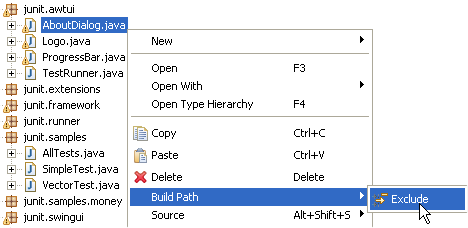
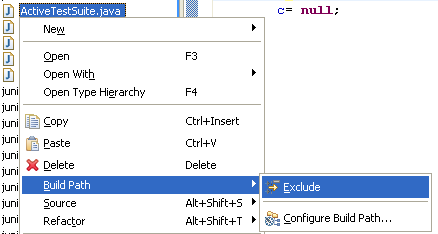
Polish of the JDT/UI section

diff --git a/bundles/org.eclipse.jdt.doc.user/whatsNew/jdt_whatsnew.html b/bundles/org.eclipse.jdt.doc.user/whatsNew/jdt_whatsnew.html
@@ -20,7 +20,6 @@ release of Eclipse since 3.0. It is broken into the several sections:</p>
 	<li><a href="#JavaCompiler">Java Compiler</a></li>
 	<li><a href="#JavaText">Java Editor</a></li>
 	<li><a href="#JavaUI">General Java Tools</a></li>
-	<li><a href="#JUnit">JUnit</a></li>
 </ul>
 <!-- *************************************************** -->
 <h2><a name="50">J2SE 5.0<br>
@@ -384,6 +383,32 @@ release of Eclipse since 3.0. It is broken into the several sections:</p>
 			<p><img src="images/rename-type-parameter.gif"
 				alt="Screenshot showing the renaming of a type parameter in a generic class"
 				title="Rename Refactoring" width="430" height="118"></p>
+			</td>
+		</tr>
+		<tr>
+			<td colspan="2">
+			<hr>
+			</td>
+		</tr>
+		<tr>
+			<td align="left" valign="top" width="30%">
+			<p align="right"><b>Source Actions</b></p>
+			</td>
+			<td valign="top" width="70%">The source actions available in the <b>Source</b>
+			context menu now support all the features of J2SE 5.0:
+			<ul>
+				<li>Override/Implement Methods supports generics and varargs in
+				method declarations</li>
+				<li>Generate Getters and Setters works on fields of generic type as
+				well</li>
+				<li>Generate Delegate Methods has support for generics and varargs,
+				and handles methods from types occurring in type bounds as well</li>
+				<li>Add Constructors from Superclass offers support for generics</li>
+				<li>Generate Constructor using Fields offers support for generics</li>
+			</ul>
+			<p><img src="images/override_method.png"
+				alt="Screenshot showing the override method action"
+				title="Source Actions" width="386" height="134"></p>
 			</td>
 		</tr>
 		<tr>
@@ -1591,23 +1616,14 @@ release of Eclipse since 3.0. It is broken into the several sections:</p>
 		</tr>
 		<tr>
 			<td width="30%" valign="top" align="left">
-			<p align="right"><b>Move member type refactoring</b></p>
+			<p align="right"><b>Member visbility adjustment</b></p>
 			</td>
-			<td width="70%" valign="top">The <b>Refactor &gt; Move Member Type to
-			New File</b> command now automatically changes the visibility of referenced
+			<td width="70%" valign="top">The refactoring commands Move method, Move Member Type to New File, Move Static member,  Pull Up and Push Down now automatically change the visibility of referenced
 			fields, methods and types wherever necessary.
-			<p><img src="images/inner-refactoring.gif"
+			<p><img src="images/visibility-adjustment.png"
 				alt="Screenshot showing the move member type to new file refactoring"
-				title="Move Member Type to New File Refactoring" width="336"
-				height="257"></p>
+				title="Move Member Type to New File Refactoring"></p>
 			</td>
-		</tr>
-		<tr>
-			<td colspan="2"></td>
-		</tr>
-		<tr>
-			<td width="30%" valign="top" align="left"></td>
-			<td width="70%" valign="top"></td>
 		</tr>
 		<tr>
 			<td colspan="2">
@@ -1616,7 +1632,7 @@ release of Eclipse since 3.0. It is broken into the several sections:</p>
 		</tr>
 		<tr>
 			<td width="30%" valign="top" align="left">
-			<p align="right"><b>Move refactoring</b></p>
+			<p align="right"><b>Move method refactoring</b></p>
 			</td>
 			<td width="70%" valign="top">The <b>Refactor &gt; Move</b> command
 			has been extended considerably to better support moving instance
@@ -1625,94 +1641,9 @@ release of Eclipse since 3.0. It is broken into the several sections:</p>
 				<li>The option to create a delegate method for compatibility</li>
 				<li>Unreferenced fields can now also be method targets</li>
 			</ul>
-			<p><img src="images/move-refactoring.gif"
+			<p><img src="images/move-refactoring.png"
 				alt="Screenshot showing the move refactoring on an instance method"
-				title="Move Refactoring" width="316" height="145"></p>
-			</td>
-		</tr>
-		<tr>
-			<td colspan="2">
-			<hr>
-			</td>
-		</tr>
-		<tr>
-			<td align="left" valign="top" width="30%">
-			<p align="right"><b>Extract Interface refactoring</b></p>
-			</td>
-			<td valign="top" width="70%">The extract interface refactoring has
-			been rewritten in order to provide full support for J2SE 5.0 and to
-			better respect code style preferences. New features include:
-			<ul>
-				<li>Support for generic types and varargs of J2SE 5.0</li>
-				<li>Full rewriting of existing method comments</li>
-				<li>Full use of code templates during code generation</li>
-			</ul>
-			<p><img src="images/interface_refactoring.png"
-				alt="Screenshot showing the extract interface refactoring"
-				title="Extract Interface Refactoring" width="400" height="201"></p>
-			</td>
-		</tr>
-		<tr>
-			<td colspan="2">
-			<hr>
-			</td>
-		</tr>
-		<tr>
-			<td align="left" valign="top" width="30%">
-			<p align="right"><b>Source Actions</b></p>
-			</td>
-			<td valign="top" width="70%">The source actions available in the <b>Source</b>
-			context menu now support all the features of J2SE 5.0:
-			<ul>
-				<li>Override/Implement Methods supports generics and varargs in
-				method declarations</li>
-				<li>Generate Getters and Setters works on fields of generic type as
-				well</li>
-				<li>Generate Delegate Methods has support for generics and varargs,
-				and handles methods from types occurring in type bounds as well</li>
-				<li>Add Constructors from Superclass offers support for generics</li>
-				<li>Generate Constructor using Fields offers support for generics</li>
-			</ul>
-			<p><img src="images/override_method.png"
-				alt="Screenshot showing the override method action"
-				title="Source Actions" width="386" height="134"></p>
-			</td>
-		</tr>
-		<tr>
-			<td colspan="2">
-			<hr>
-			</td>
-		</tr>
-		<tr>
-			<td valign="top" width="30%">
-			<p align="right"><b>Changing multiple line-wrap settings at once</b></p>
-			</td>
-			<td valign="top" width="70%">The Java code formatter page lets
-			you change multiple line-wrap settings at once by multi-selecting in
-			the tree and then changing settings:
-			<p><img alt="Code Formatter line wrap page"
-				src="images/line-wrap.gif" width="408" height="278"></p>
-			<p>Code formatter settings are on the <b>Java &gt; Code Style &gt;
-			Code Formatter </b>preference page.</p>
-			</td>
-		</tr>
-		<tr>
-			<td colspan="2">
-			<hr>
-			</td>
-		</tr>
-		<tr>
-			<td align="left" valign="top" width="30%">
-			<p align="right"><b>Build path menu in the Package Explorer<br>
-			</b></p>
-			</td>
-			<td valign="top" width="70%">The context menu of the Java Package
-			Explorer has a new 'Build Path' menu entry, offering
-			context-sensitive actions to modify the build path of a Java project.
-			You can add/remove new source folders, archives and libraries, and
-			include/exclude folders and files from a source folder:
-			<p><img alt="Build path menu" src="images/buildpath-menu.png"
-				width="468" height="228"></p>
+				title="Move Refactoring"></p>
 			</td>
 		</tr>
 		<tr>
@@ -1740,6 +1671,24 @@ release of Eclipse since 3.0. It is broken into the several sections:</p>
 		</tr>
 		<tr>
 			<td align="left" valign="top" width="30%">
+			<p align="right"><b>Build path menu in the Package Explorer<br>
+			</b></p>
+			</td>
+			<td valign="top" width="70%">The context menu of the Java Package
+			Explorer has a new 'Build Path' menu entry, offering
+			context-sensitive actions to modify the build path of a Java project.
+			You can add/remove new source folders, archives and libraries, and
+			include/exclude folders and files from a source folder:
+			<p><img alt="Build path menu" src="images/buildpath-menu.png"></p>
+			</td>
+		</tr>
+		<tr>
+			<td colspan="2">
+			<hr>
+			</td>
+		</tr>
+		<tr>
+			<td align="left" valign="top" width="30%">
 			<p align="right"><b>New Eclipse default built-in formatter profile</b></p>
 			</td>
 			<td valign="top" width="70%">Although Eclipse's default code
@@ -1757,6 +1706,24 @@ release of Eclipse since 3.0. It is broken into the several sections:</p>
 			</td>
 		</tr>
 		<tr>
+			<td valign="top" width="30%">
+			<p align="right"><b>Changing multiple line-wrap settings at once</b></p>
+			</td>
+			<td valign="top" width="70%">The Java code formatter page lets you
+			change multiple line-wrap settings at once by multi-selecting in the
+			tree and then changing settings:
+			<p><img alt="Code Formatter line wrap page"
+				src="images/line-wrap.png"></p>
+			<p>Code formatter settings are on the <b>Java &gt; Code Style &gt;
+			Code Formatter </b>preference page.</p>
+			</td>
+		</tr>
+		<tr>
+			<td colspan="2">
+			<hr>
+			</td>
+		</tr>
+		<tr>
 			<td width="30%" valign="top" align="left">
 			<p align="right"><b>Mixed indentation settings</b></p>
 			</td>
@@ -1764,8 +1731,7 @@ release of Eclipse since 3.0. It is broken into the several sections:</p>
 			allows the tab size to be configured independently from the
 			indentation size (see the <b>Indentation</b> tab in your formatter
 			profile):
-			<p><img src="images/mixed-indents.png" width="426" height="148"
-				alt="Java formatter preference page. Set the indentation preferences on the 'Indentation' tab of the formatter profile."
+			<p><img src="images/mixed-indents.png" alt="Java formatter preference page. Set the indentation preferences on the 'Indentation' tab of the formatter profile."
 				title="The 'Indentation' tab of the formatter profile allows you to separately configure tabulator and indentation settings">
 			</p>
 			<p>For example, set <b>Tab&nbsp;size</b> to <b>8</b> and <b>Indentation&nbsp;size</b>
@@ -1783,45 +1749,12 @@ release of Eclipse since 3.0. It is broken into the several sections:</p>
 		</tr>
 		<tr>
 			<td align="left" valign="top" width="30%">
-			<p align="right"><b>New layout for Java preference pages</b></p>
-			</td>
-			<td width="70%" valign="top">In an ongoing effort to improve our
-			preference pages, several pages have been reorganized. The various <b>Java
-			&gt; Compiler</b> preference pages are now arranged in collapsible
-			sections:
-			<p><img alt="Errors/Warnings preference page"
-				src="images/compiler-preference-page.gif" width="408" height="351"></p>
-			</td>
-		</tr>
-		<tr>
-			<td colspan="2">
-			<hr>
-			</td>
-		</tr>
-	</tbody>
-</table>
-<!-- *************************************************** -->
-<h2><a name="JUnit">JUnit</a></h2>
-<table cellpadding="10" cellspacing="0" width="600">
-	<colgroup>
-		<col width="20%" valign="top" align="right">
-		<col width="80%" valign="top" align="left">
-	</colgroup>
-	<tbody>
-		<tr>
-			<td colspan="2">
-			<hr>
-			</td>
-		</tr>
-		<tr>
-			<td align="left" valign="top" width="30%">
 			<p align="right"><b>Rerun failed tests first</b></p>
 			</td>
 			<td width="70%" valign="top">There's a new action in the JUnit view
 			that allows you to rerun failing tests before any of the ones that
 			were passing.
-			<p><img alt="Rerun last failed tests" src="images/rerunfailed.gif"
-				width="309" height="26"></p>
+			<p><img alt="Rerun last failed tests" src="images/rerunfailed.png"></p>
 			</td>
 		</tr>
 		<tr>
@@ -1829,7 +1762,6 @@ release of Eclipse since 3.0. It is broken into the several sections:</p>
 			<hr>
 			</td>
 		</tr>
-		<!-- ****************** END OF N&N TABLE ****************** -->
 	</tbody>
 </table>
 
